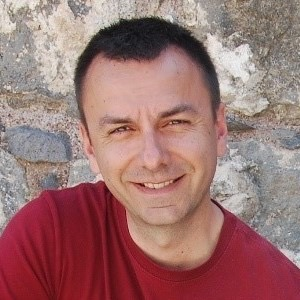
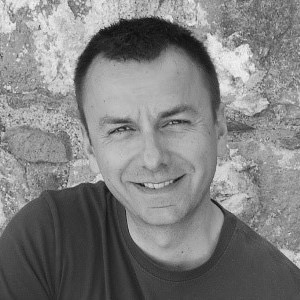
bw photos, add peto-ivan

diff --git a/layouts/index.html b/layouts/index.html
@@ -115,21 +115,55 @@
         <h2 class="section-heading">Program</h2>
 
         <div class="program-timeline">
-            {{ range $index, $page := (where .Site.RegularPages "Section" "program").ByWeight }}
             <div class="timeline-item">
                 <div class="timeline-marker">
-                    <span class="day-number">{{ add $index 1 }}</span>
+                    <span class="day-number">1</span>
                 </div>
                 <div class="timeline-content">
-                    <h3>{{ .Title }} {{ .Params.eventDate }}</h3>
+                    <h3>Piatok 20. február</h3>
+                    <p class="timeline-desc">Príchod, registrácia a úvodné stretnutie. Spoznaj nových ľudí a priprav sa
+                        na úžasný víkend.</p>
                     <ul class="timeline-highlights">
-                        {{ range .Params.sessions }}
-                        <li>{{ .time }}{{ if .title }} - {{ .title }}{{ end }}{{ if .speaker }} ({{ .speaker }}){{ end }}</li>
-                        {{ end }}
+                        <li>16:00 - Registrácia</li>
+                        <li>17:00 - 19:00 - Večera</li>
+                        <li>20:00 - Večerný program</li>
+                        <li>22:00 - Semináre a športy</li>
                     </ul>
                 </div>
             </div>
-            {{ end }}
+
+            <div class="timeline-item">
+                <div class="timeline-marker">
+                    <span class="day-number">2</span>
+                </div>
+                <div class="timeline-content">
+                    <h3>Sobota 21. február</h3>
+                    <p class="timeline-desc">Hlavný deň konferencie s prednáškami, seminármi a aktivitami.</p>
+                    <ul class="timeline-highlights">
+                        <li>7:15 - 8:30 - Raňajky</li>
+                        <li>9:00 - Hlavný program</li>
+                        <li>10:45 - Semináre</li>
+                        <li>12:00 - Obed</li>
+                        <li>14:00 - Semináre</li>
+                        <li>19:30 - Hlavný program</li>
+                    </ul>
+                </div>
+            </div>
+
+            <div class="timeline-item">
+                <div class="timeline-marker">
+                    <span class="day-number">3</span>
+                </div>
+                <div class="timeline-content">
+                    <h3>Nedeľa 22. február</h3>
+                    <p class="timeline-desc">Záverečný deň s bohoslužbou a rozlúčkou.</p>
+                    <ul class="timeline-highlights">
+                        <li>7:15 - 8:30 - Raňajky</li>
+                        <li>09:00 - Hlavný program</li>
+                        <li>12:00 - Obed</li>
+                    </ul>
+                </div>
+            </div>
         </div>
         
         <div style="text-align: center; margin-top: 3rem;">

diff --git a/layouts/speakers/list.html b/layouts/speakers/list.html
@@ -2,7 +2,7 @@
 <section class="page-header">
     <div class="container">
         <h1>{{ .Title }}</h1>
-        <p>Meet our distinguished speakers</p>
+        <p>Sme radi, že pozvanie prijali:</p>
     </div>
 </section>
 

diff --git a/content/speakers/peto-azor.md b/content/speakers/peto-azor.md
@@ -1,6 +1,8 @@
 ---
 title: "Peťo Azor"
-role: ""
+role: "BJB Banská Bystrica"
 image: "/images/speakers/peto-azor.jpg"
 ---
 
+Som ako švajčiarsky nožík – síce v ničom nevynikám, ale na nejakej úrovni poslúžim vo viacerých oblastiach.
+Nebojím sa púšťať do kontroverzných tém a som presvedčený, že výborná otázka je oveľa prínosnejšia než priemerná odpoveď.

diff --git a/content/speakers/_index.md b/content/speakers/_index.md
@@ -2,4 +2,4 @@
 title: "Rečníci"
 ---
 
-Meet our distinguished lineup of industry experts and thought leaders.
+Títo rečníci ťa tento rok budú inšpirovať.

diff --git a/content/seminars/vztahy.md b/content/seminars/vztahy.md
@@ -1,7 +1,7 @@
 ---
 title: "Vzťahy - Q&A manželov Polohovcov"
 track: "Vzťahy"
-duration: "3 hours"
+duration: "2 hod."
 instructor: "Polohovci"
 ---
 

diff --git a/content/seminars/cirkev.md b/content/seminars/cirkev.md
@@ -1,7 +1,7 @@
 ---
 title: "Cirkev v realite života"
 track: "Cirkev"
-duration: "3 hours"
+duration: "2 hod."
 instructor: "Edo Gurka"
 ---
 
